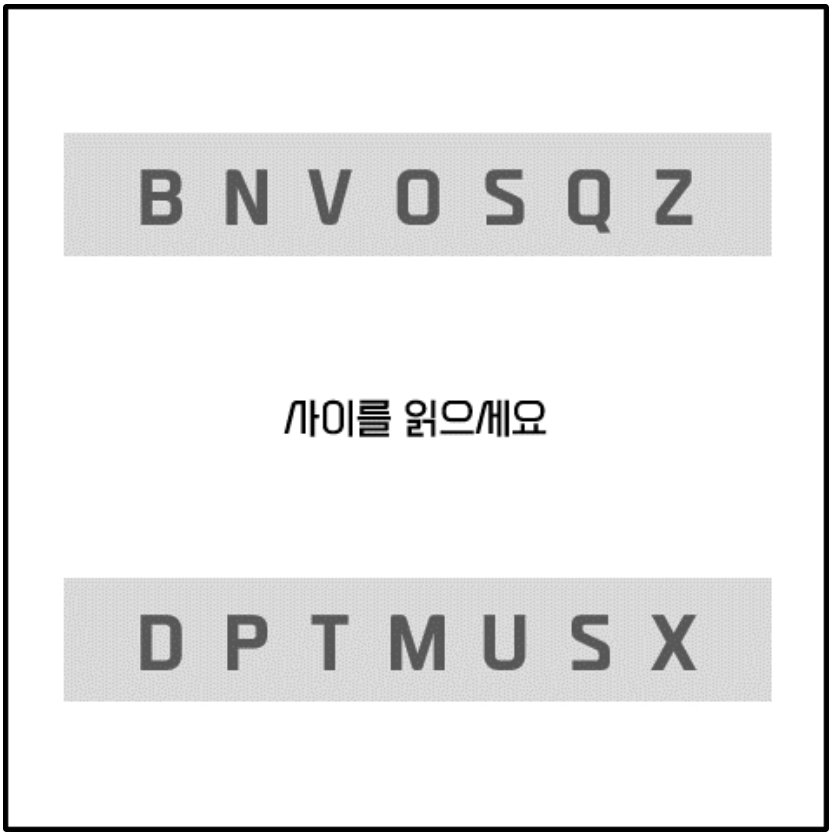
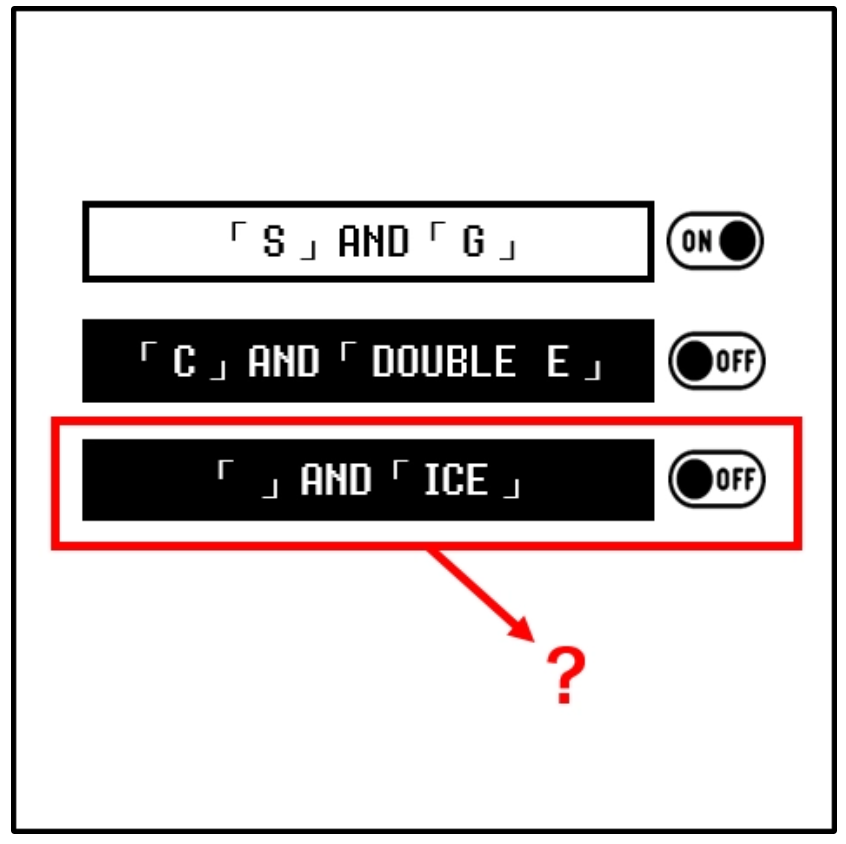
chore: remove Q8 (keyboard) and reorder questions
- 기존 Q8(BRAINS 키보드 시프트) 제거
- 기존 Q9(EXIT) → 새 Q1
- 기존 Q1~Q7 → 한 칸씩 뒤로 (Q2~Q8)
- Q10/Q11/Q12 → Q9/Q10/Q11
- TOTAL_QUESTIONS 12→11
- 이미지 파일도 새 번호에 맞게 재배치

diff --git a/lib/game-data.ts b/lib/game-data.ts
@@ -54,94 +54,87 @@ export const HINT_PENALTY_SECONDS = 120
 export const PASS_PENALTY_SECONDS = 300  // 문제 패쓰 패널티
 export const WRONG_ANSWER_DELAY_MS = 10000  // 오답 후 재시도 딜레이
 export const PHOTO_PASS_THRESHOLD = 70  // 사진 미션 통과 기준 점수
-export const TOTAL_QUESTIONS = 12
+export const TOTAL_QUESTIONS = 11
 
 export const SAMPLE_QUESTIONS: Question[] = [
   {
     id: 1,
     type: "text",
-    question: "이번 워크샵에 참석한 인원수는? (숫자로 입력)",
-    answer: "46",
+    question: "각 사각형 안의 선분이 알파벳 획을 나타냅니다. 4개의 사각형이 만드는 단어는?",
+    answer: "EXIT",
+    hint: "사각형 안의 선분이 알파벳 한 획처럼 생겼습니다. 각 선분이 어느 글자의 특징적인 부분인지 생각해보세요",
+    imageUrl: "/questions/q1.png"
   },
   {
     id: 2,
     type: "text",
-    question: "표에서 ?에 들어갈 숫자는?",
-    answer: "20",
-    hint: "맨 아래 행부터 시작해서 위로 올라가보세요. 각 숫자와 그 왼쪽·아래 숫자 사이의 관계를 찾아보세요",
-    imageUrl: "/questions/q2.png"
+    question: "이번 워크샵에 참석한 인원수는? (숫자로 입력)",
+    answer: "46",
   },
   {
     id: 3,
     type: "text",
-    question: "다음이 의미하는 6글자 비밀 암호는?",
-    answer: "CARBON",
-    hint: "왼쪽 단어에서 일부 글자를 추출하고, 오른쪽은 B의 위치 관계를 영어로 표현해보세요",
+    question: "표에서 ?에 들어갈 숫자는?",
+    answer: "20",
+    hint: "맨 아래 행부터 시작해서 위로 올라가보세요. 각 숫자와 그 왼쪽·아래 숫자 사이의 관계를 찾아보세요",
     imageUrl: "/questions/q3.png"
   },
   {
     id: 4,
+    type: "text",
+    question: "다음이 의미하는 6글자 비밀 암호는?",
+    answer: "CARBON",
+    hint: "왼쪽 단어에서 일부 글자를 추출하고, 오른쪽은 B의 위치 관계를 영어로 표현해보세요",
+    imageUrl: "/questions/q4.png"
+  },
+  {
+    id: 5,
     type: "qr",
     question: "주변에 숨겨진 QR 코드를 찾아 스캔하세요! 올바른 QR 코드만 통과됩니다.",
     answer: "SIGNAL",
   },
   {
-    id: 5,
+    id: 6,
     type: "text",
     question: "화살표를 알파벳으로 바꿔 단어를 해독하세요. (정답은 4글자, →=E, ↑=N, ↓=S, ←=W)",
     answer: "NEST",
     hint: "화살표를 방위(North, East, South, West)의 첫 글자로 바꿔보세요. 마지막 줄 4개의 타일이 정답입니다",
-    imageUrl: "/questions/q5.png"
-  },
-  {
-    id: 6,
-    type: "text",
-    question: "GKG가 의미하는 단어는? 영어로 답하세요.",
-    answer: "KING",
-    hint: "각 코드는 원래 단어의 마지막+첫번째+마지막 글자 순서입니다. 예) WINE → EWE",
     imageUrl: "/questions/q6.png"
   },
   {
     id: 7,
+    type: "text",
+    question: "GKG가 의미하는 단어는? 영어로 답하세요.",
+    answer: "KING",
+    hint: "각 코드는 원래 단어의 마지막+첫번째+마지막 글자 순서입니다. 예) WINE → EWE",
+    imageUrl: "/questions/q7.png"
+  },
+  {
+    id: 8,
     type: "photo",
     question: "📷 미션: 주변에서 '물병'을 찾아 사진을 찍어 제출하세요! (생수병, 텀블러, 음료수 병 등 액체를 담는 병 모양이면 통과)",
     answer: "물병 또는 음료수 병. 생수병(플라스틱 PET 보틀), 텀블러, 보온병, 유리병, 음료수 병 등 액체를 담는 원통형/병 모양 용기이면 높은 점수를 준다. 뚜껑이 있거나 라벨이 있는 병 형태면 후하게 평가할 것. 컵이나 머그(손잡이 있는 것)는 낮은 점수.",
   },
   {
-    id: 8,
-    type: "text",
-    question: "어떤 사람이 단어를 입력하려 했는데, 손의 위치가 잘못된 채로 타이핑을 해버렸습니다.\n출력된 암호를 보고 원래 단어를 맞춰보세요.\n\nQ W E R T Y U I O P\n A S D F G H J K L\n  Z X C V B N M\n\n암호: N T S O M D",
-    answer: "BRAINS",
-    hint: "키보드에서 각 암호 글자 주변의 키들을 살펴보세요. 손가락 위치가 어느 방향으로 틀어졌을까요?",
-  },
-  {
     id: 9,
-    type: "text",
-    question: "각 사각형 안의 선분이 알파벳 획을 나타냅니다. 4개의 사각형이 만드는 단어는?",
-    answer: "EXIT",
-    hint: "사각형 안의 선분이 알파벳 한 획처럼 생겼습니다. 각 선분이 어느 글자의 특징적인 부분인지 생각해보세요",
-    imageUrl: "/questions/q9.png"
-  },
-  {
-    id: 10,
     type: "updown",
     question: "카카오뱅크가 1000만 고객을 달성한 시기는? (YYYYMMDD 8자리 숫자)\n\n제출하면 정답이 더 위(↑)인지 아래(↓)인지 알려드립니다.",
     answer: "20190711",
   },
   {
-    id: 11,
+    id: 10,
     type: "text",
     question: "두 줄의 글자 '사이'를 읽어 단어를 만드세요. (영어 7글자)",
     answer: "COUNTRY",
     hint: "각 위치에서 위·아래 두 글자 사이에 오는 알파벳을 찾으세요.",
-    imageUrl: "/questions/q11.png",
+    imageUrl: "/questions/q10.png",
   },
   {
-    id: 12,
+    id: 11,
     type: "text",
     question: "스위치 ON/OFF 상태를 단어 사이에 끼워 넣으면 새로운 단어가 됩니다. ?에 들어갈 단어는?",
     answer: "OFFICE",
     hint: "스위치 상태(ON/OFF)를 양쪽 글자 사이에 그대로 끼워 넣어보세요.",
-    imageUrl: "/questions/q12.png",
+    imageUrl: "/questions/q11.png",
   },
 ]